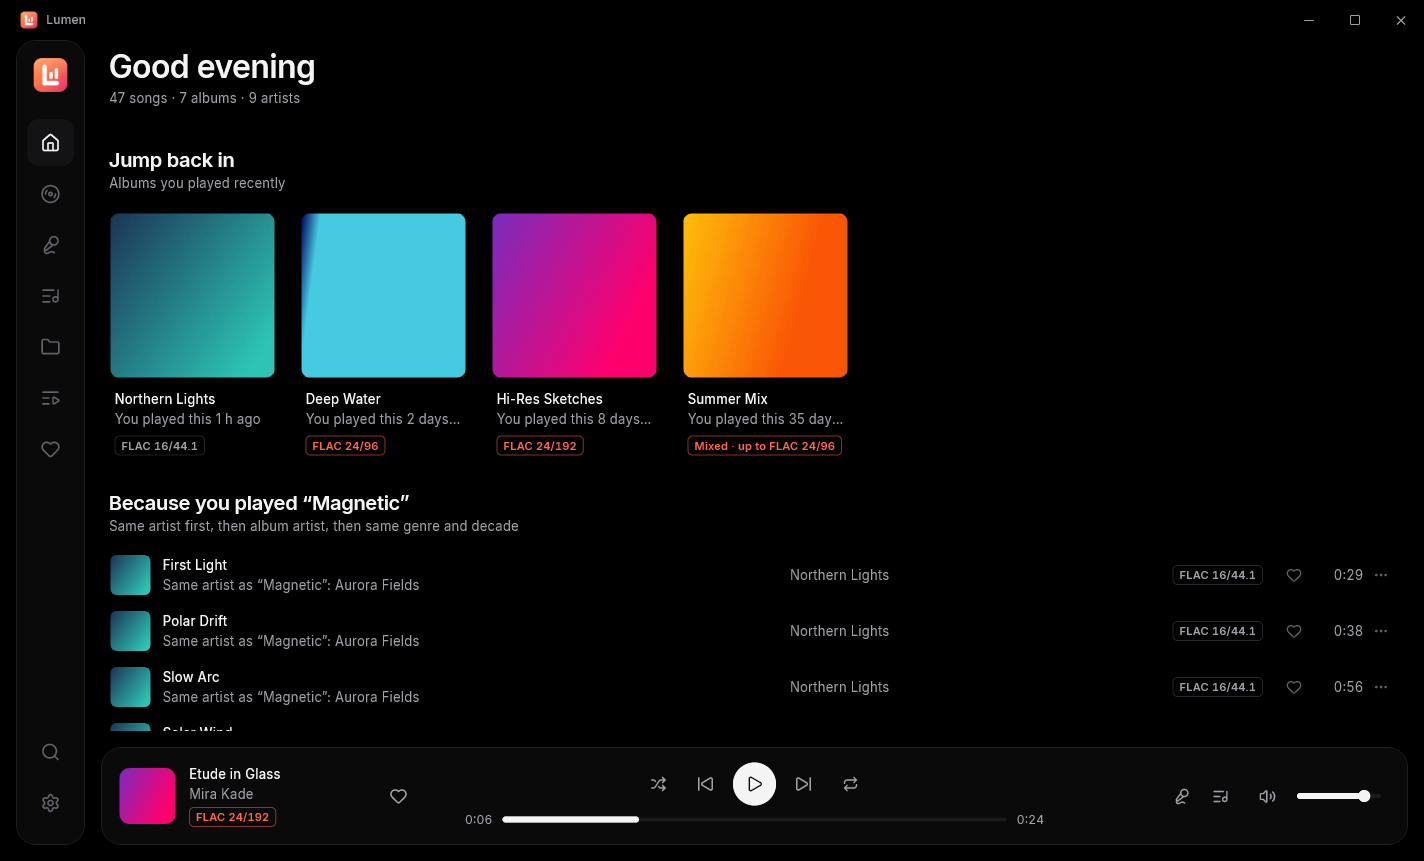
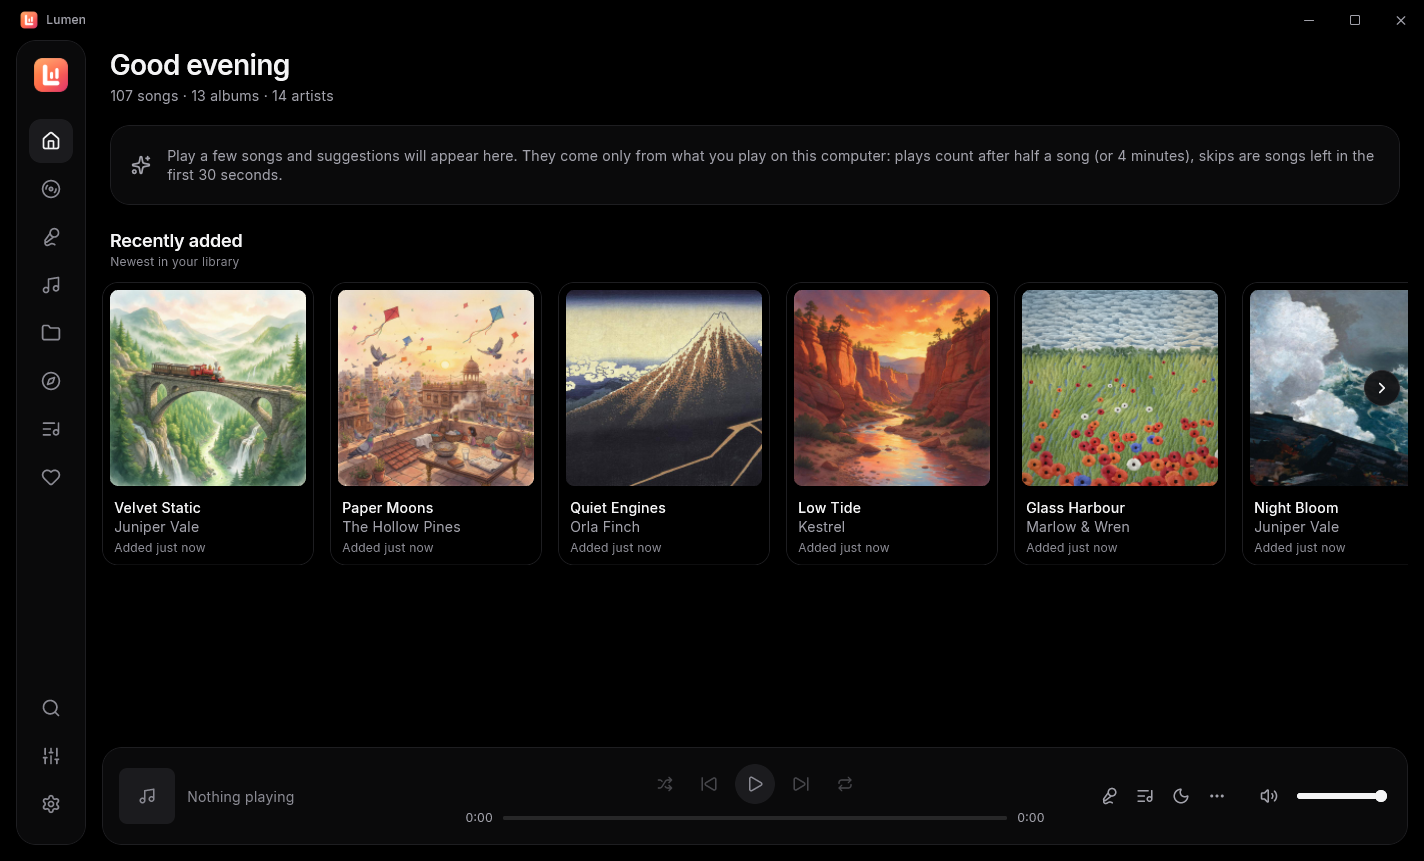
Docs for 0.2.0: README features and fresh screenshots, release notes

diff --git a/docs/releases/v0.2.0.md b/docs/releases/v0.2.0.md
@@ -1,0 +1,56 @@
+# Lumen 0.2.0 beta
+
+Everything since 0.1.1, in plain words. Your library from 0.1.x upgrades by itself on the first start; your music files are only ever read.
+
+## New
+
+### Sound
+A new **Sound** page (the sliders button in the rail, just above Settings).
+- **Signal path** at the top shows what really happens to the music, step by step, for example `FLAC 24/96 → EQ → Limiter → 48 kHz → Speakers`. A **Bit-perfect ✓** badge appears only when Lumen has checked that the device gets exactly the samples in the file. Otherwise it says plainly why not.
+- **Equalizer:** a 10-band **Graphic** EQ, or an **Advanced** parametric EQ with up to 10 bands (peak, shelves, low-/high-pass, notch) that you can drag on the curve. Moving a slider changes the sound live, with no gap or click. 17 built-in presets (including *Small speakers* and *Late night*), plus your own: save, rename, delete, export and import.
+- **Headphone correction:** paste or open an AutoEQ `ParametricEQ.txt`, an Equalizer APO file or a `GraphicEQ.txt`. Nothing is downloaded.
+- **EQ per output device:** your headphones and your speakers each keep their own EQ.
+- **Crossfeed** for headphones (Light / Medium / Strong), so music feels less "inside your head".
+- **Best quality on this device** (on by default): when the device runs at another rate, Lumen converts with soxr at its best setting, works in 32-bit float, adds fine dither for whole-number devices, lowers the level by exactly the EQ's highest boost and keeps peaks under −0.3 dBFS. Cheap devices get clean sound with no crackle.
+- **Upsampling** to 88.2/96, 176.4/192 kHz or the device maximum (in Exclusive mode).
+- **ReplayGain** (Track / Album / Auto) with clipping prevention, and optional gentle levelling for files without ReplayGain tags.
+- The output device and Exclusive mode moved here from Settings.
+
+### Covers and the spinning disc
+- **Cover art for albums without a good cover.** When an album has no cover, or a small or blurry one, Lumen shows art instead. It comes from three collections, all on by default:
+  - **Masterpieces:** 100 public-domain paintings (van Gogh, Hokusai, Klimt, Turner and more), credited in the picker.
+  - **Illustrated:** 100 storybook illustrations made for Lumen.
+  - **Painted:** three styles that Lumen paints itself (starry night, storybook and garden), so the variety never runs out.
+  - **Abstract:** Lumen's 11 code-drawn styles, off by default, can be turned on in Settings → Disc & covers.
+- **Change cover:** right-click an album (or the big cover in Now Playing) to pick any artwork, or keep the original. Your pick is saved for that album and survives moving your music folder. Music files are never written.
+- Each collection is used about equally often, and the drawn art is cached on disk (up to about 300 MB, the least recently used goes first).
+- **The spinning disc:** in Now Playing, a disc slides out from behind the cover, printed with the album art, and turns while music plays. It slows to a stop on pause. **CD** (default) or **vinyl**, or off, in Settings.
+- **Disc mode** (press **D**): only the cover and the spinning disc, for a second screen. F11 fills the screen; Esc leaves.
+- **Mini player:** a small always-on-top window with the cover, the disc and the controls. Open it from ••• in the player bar or from the tray.
+
+### Browse, playlists and statistics
+- **Browse** (the compass in the rail): **Genres**, **Years** (by decade), **Composers** (each work with its movements in order; *Play work* plays them all), **Duplicates** (copies side by side, with their format; *Hide from library* hides one without touching the file) and **Statistics**.
+- **Statistics:** listening time per day, week or month, and your top songs, albums and artists for 7 days, 30 days, 12 months or all time, plus the size of your library.
+- **Smart playlists** that update themselves: rules for genre, year, recently added, play count, never played, favourites, format, sample rate, bit depth and artist. Four are ready-made: Recently added, Most played, Never played and Hi-Res.
+
+### Look and feel
+- **Light theme:** Settings → Theme → Dark / Light / Follow Windows. Every text colour passes the AA contrast rule in both.
+- **Accent from the album art:** Now Playing's glow and the active seek bar take a colour from the playing song's cover.
+- **Tray icon:** play/pause, next, previous, the mini player and quit. *Close to tray* (off by default) keeps the music playing when you close the window.
+- **Sleep timer** (the moon button): 15–60 minutes, end of song or end of queue, with a 10-second fade.
+- **Queue:** Clear, Save as playlist, Undo after a remove, and *Stop after this song*.
+- **Multi-select** everywhere (click, Ctrl+click, Shift+click, Ctrl+A), right-click menus on every card and row, and Play / Shuffle / Play next / Add to queue on every album, artist, folder and playlist.
+
+### Lumen's own audio engine
+Lumen now plays through its own build of mpv 0.41 and FFmpeg 8.1, made in public at [github.com/capsuleutkarsh-design/lumen-audio-engine](https://github.com/capsuleutkarsh-design/lumen-audio-engine). It can only open local files (no network at all), it is smaller than before, and it has every filter the Sound page needs.
+
+## Fixed
+- **Playback:** gapless hand-overs never play a different song from the one the queue shows, even when you edit the queue at the last moment; Next pressed during a hand-over moves exactly one song; songs that can't be played are skipped with a message instead of hanging; an unplugged output device falls back to the system default; the format badge shows what the device really gets; media keys Play and Pause do exactly that; skips and plays are counted correctly across restarts.
+- **Library:** a damaged library file is set aside and Lumen starts fresh instead of failing; renamed or moved music keeps its plays, favourites and playlist places; folders that can't be read no longer remove their songs; better tag reading (DSD, APE, odd MP3/AAC/M4A files, Windows-1252 WAV tags); folder art added later is picked up; album artists and multi-disc albums are grouped better; scanning never blocks the app.
+- **Window and start-up:** the window never opens off-screen; if Lumen can't start it says why and offers *Start fresh* (nothing is deleted); only one Lumen runs at a time; a log file (`lumen.log`) for bug reports; Snap Layouts on the maximise button.
+- **Layout:** the player bar, album headers and song lists fit small windows and large text; keyboard use (Space, Enter, Tab, arrows) works as expected; scroll position and sort order are remembered.
+- **Installer:** the version comes from one place; uninstall asks before deleting your data (No is the default); the portable zip works everywhere; the VC++ runtime is included, so Lumen starts on a fresh Windows.
+
+## Good to know
+- Monet's paintings will join the Masterpieces collection in January 2027, when they become public domain.
+- The installer is larger (about 40 MB) because the two cover collections are bundled. Nothing is downloaded at any time.

diff --git a/README.md b/README.md
@@ -18,16 +18,19 @@ Windows now · Android coming · No account, no internet, no AI. Just your music
 
 Get **[Lumen for Windows](https://github.com/capsuleutkarsh-design/lumen/releases/latest)** (beta): run `Lumen-Setup-….exe`, or unzip the portable `.zip` and run `lumen.exe`. Then open **Settings → Add folder** and pick your music folder. Lumen only reads your files; it never changes them.
 
-> **Beta:** this is the first version. Please report anything odd in [Issues](https://github.com/capsuleutkarsh-design/lumen/issues).
+> **Beta:** please report anything odd in [Issues](https://github.com/capsuleutkarsh-design/lumen/issues). What's new in 0.2.0: [release notes](docs/releases/v0.2.0.md).
 
 ## Screenshots
 
 | | |
 |---|---|
-| ![Album](docs/images/screens/03_album_two_discs.png) **Album** (a two-disc set) | ![Synced lyrics](docs/images/screens/13_lyrics_synced.png) **Synced lyrics** |
-| ![Search](docs/images/screens/15_search.png) **Ctrl+K search** | ![Queue](docs/images/screens/14_queue.png) **Play queue** |
-| ![Songs](docs/images/screens/07_songs.png) **Songs**, with the quality of every file | ![Artists](docs/images/screens/05_artists.png) **Artists** |
-| ![Playlist](docs/images/screens/10_playlist.png) **Playlist** | |
+| ![Now Playing](docs/images/screens/20_now_playing_cd.png) **Now Playing** with the spinning CD | ![Disc mode](docs/images/screens/21_disc_mode.png) **Disc mode** (press D) |
+| ![Sound](docs/images/screens/30_sound_graphic_eq.png) **Sound:** graphic EQ and the signal path | ![Advanced EQ](docs/images/screens/31_sound_advanced_eq.png) **Advanced EQ** with headphone correction |
+| ![Album](docs/images/screens/03_album.png) **Album** | ![Change cover](docs/images/screens/23_change_cover.png) **Change cover**, with credits |
+| ![Composers](docs/images/screens/40_composers.png) **Browse → Composers** | ![Statistics](docs/images/screens/41_statistics.png) **Statistics** |
+| ![Smart playlists](docs/images/screens/42_smart_playlists.png) **Smart playlists** | ![Mini player](docs/images/screens/22_mini_player.png) **Mini player** |
+| ![Light theme](docs/images/screens/50_light_home.png) **Light theme** | ![Light album](docs/images/screens/51_light_now_playing.png) **Light theme:** Now Playing |
+| ![Synced lyrics](docs/images/screens/13_lyrics_synced.png) **Synced lyrics** | ![Search](docs/images/screens/15_search.png) **Ctrl+K search** |
 
 ## Why Lumen
 
@@ -43,18 +46,24 @@ Lumen is inspired by [Wora](https://github.com/playwora/wora), a lovely-looking 
 
 ## Features
 
-- **Every common format:** FLAC (any resolution), ALAC, WAV, AIFF, WavPack, MP3, AAC, OGG and Opus.
+- **Every common format:** FLAC (any resolution), ALAC, WAV, AIFF, WavPack, APE, DSD, MP3, AAC, OGG and Opus.
+- **The Sound page:** a signal path that shows what happens to your music, with a verified **Bit-perfect** badge; a 10-band graphic and an advanced parametric **EQ** with presets; headphone correction from AutoEQ or Equalizer APO files; EQ per output device; crossfeed; upsampling with soxr; ReplayGain; and *Best quality on this device* (high-quality resampling, dither, headroom and a limiter, so even cheap speakers play cleanly).
 - **Bit-perfect output:** WASAPI exclusive mode and an output device picker, plus a quality badge such as *FLAC 24/96*.
-- **Library:** albums, artists, songs, folders, playlists and favourites; M3U8 import and export.
+- **Cover art collections:** albums without a good cover get a public-domain painting (*Masterpieces*), a storybook illustration made for Lumen (*Illustrated*) or a style Lumen paints itself (*Painted*). Right-click → **Change cover** to pick any artwork, with credits. Your files are never changed.
+- **The spinning disc:** a CD (or vinyl) slides out from behind the cover in Now Playing and turns while the music plays. **Disc mode** shows only the cover and the disc; the **mini player** keeps them in a small always-on-top window.
+- **Library:** albums, artists, songs, folders, playlists and favourites; M3U8 import and export. **Browse** by genre, year and composer (works and their movements in order), and find duplicates.
+- **Smart playlists** that update themselves (recently added, most played, never played, Hi-Res, or your own rules), and **Statistics** of your listening.
 - **Quick play:** press **Ctrl+K** to search songs, albums and artists.
 - **Lyrics:** synced lyrics from `.lrc` files or embedded tags.
-- **Windows integration:** media keys, the Windows media overlay, and your queue remembered after a restart.
+- **Dark and light themes**, or follow Windows; the accent follows the album art.
+- **Windows integration:** media keys, the Windows media overlay, a tray icon (with close to tray), a sleep timer, and your queue remembered after a restart.
 - **Private:** everything stays on your PC. The only internet use is an optional update check, off unless you turn it on in Settings.
 
 ## Your data
 
-Lumen keeps its library list, playlists, favourites, play counts, cover thumbnails and a log (`lumen.log`) in **`%APPDATA%\Utkarsh Tripathi\Lumen\`**. *Settings → Data and updates* has buttons that open the folder and the log. Your music files are only read, never changed.
+Lumen keeps its library list, playlists, favourites, play counts, sound settings and a log (`lumen.log`) in **`%APPDATA%\Utkarsh Tripathi\Lumen\`**. *Settings → Data and updates* has buttons that open the folder and the log. Your music files are only read, never changed.
 
+- **Caches:** cover thumbnails and the cover art Lumen draws are kept in `%LOCALAPPDATA%` (the art is capped at about 300 MB; the least recently used goes first). Deleting them is safe.
 - **Portable copy:** the portable `.zip` has a `portable.txt` next to `lumen.exe`, so it keeps everything in a `userdata` folder beside the program instead. Delete `portable.txt` to use `%APPDATA%` again.
 - **Uninstalling** asks whether to delete this data too; the answer is *keep* unless you choose otherwise.
 - **If Lumen cannot start,** it shows why, with *Open data folder* and *Start fresh*. Start fresh renames the old library to `library.db.broken-<date>` and starts empty; nothing is deleted.
